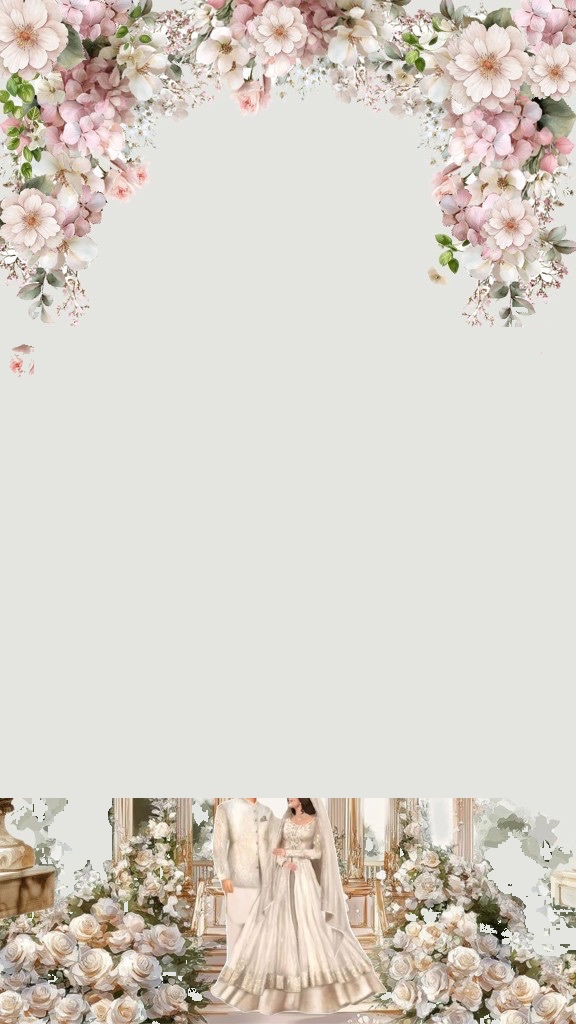
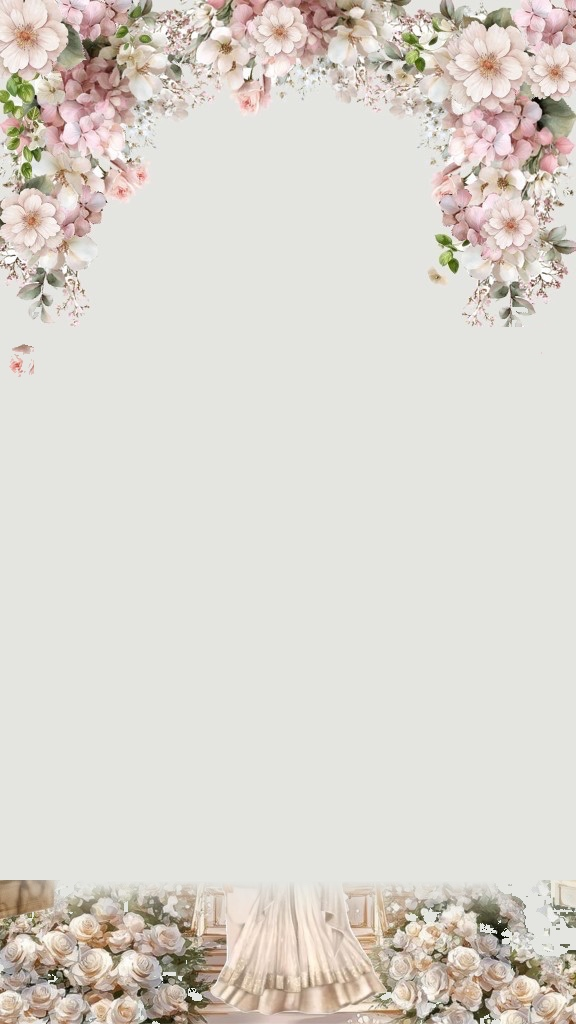
Blend the scratch seam, add blush petals, and swap the hint for a wand.
Clear the jagged band under the heart, rain pink/cream petals on scratch and countdown, and teach the gesture with a swiping wand tip.

Changed region(s): [[0.0, 0.7812, 1.0, 0.9062]]

diff --git a/src/components/reveal/ScratchReveal.tsx b/src/components/reveal/ScratchReveal.tsx
@@ -153,7 +153,7 @@ export default function ScratchReveal({ locale }: { locale: Locale }) {
         justifyContent: 'flex-start',
       }}
     >
-      <Petals tone="red-white" amount={16} />
+      <Petals tone="blush-mix" amount={20} />
 
       <svg width="0" height="0" aria-hidden style={{ position: 'absolute' }}>
         <defs>
@@ -335,33 +335,34 @@ export default function ScratchReveal({ locale }: { locale: Locale }) {
               {showHint && !isRevealed && (
                 <>
                   <div className="foil-shimmer" />
-                  <div className={`scratch-hint${isRtl ? ' is-rtl' : ''}`} aria-hidden>
-                    <svg width="36" height="54" viewBox="0 0 36 54" fill="none">
-                      {/* One pointing index finger + simple palm */}
-                      <path
-                        d="M15.4 24.5V6.8c0-2.55 1.7-4.3 3.85-4.3S23.1 4.25 23.1 6.8v17.7"
-                        fill="#FFF5F6"
-                        stroke={pink.main}
-                        strokeWidth="1.6"
-                        strokeLinejoin="round"
-                      />
-                      <path
-                        d="M11.2 26.2c-2.85 1-4.8 3.5-4.8 6.6 0 5.55 4.7 12.8 12.85 15.7 8 2.85 16.15-.2 19.4-5.7 2.25-3.8 1.25-8-2.15-10.1-1.2-.75-2.7-.95-4.15-.55l-1.2.4"
-                        fill="#FFF5F6"
-                        stroke={pink.main}
-                        strokeWidth="1.6"
-                        strokeLinejoin="round"
-                      />
-                      <path
-                        d="M11.5 26.8c0-1.85 1.25-3.15 2.95-3.15h8.5c1.55 0 2.8 1.15 2.8 2.7v3.35"
-                        fill="#FFF5F6"
-                        stroke={pink.main}
-                        strokeWidth="1.6"
-                        strokeLinejoin="round"
-                      />
-                      <circle cx="19.25" cy="3.85" r="1.2" fill={pink.soft} />
-                    </svg>
-                  </div>
+                <div className={`scratch-hint${isRtl ? ' is-rtl' : ''}`} aria-hidden>
+                  <svg width="64" height="64" viewBox="0 0 64 64" fill="none">
+                    {/* Magical wand — tip spark + slender wood shaft */}
+                    <circle cx="14" cy="14" r="3.2" fill="#FFF8F9" stroke={pink.main} strokeWidth="1.2" />
+                    <path
+                      d="M16.2 16.2 L48.8 48.8"
+                      stroke={pink.deep}
+                      strokeWidth="3.2"
+                      strokeLinecap="round"
+                    />
+                    <path
+                      d="M16.2 16.2 L48.8 48.8"
+                      stroke={pink.soft}
+                      strokeWidth="1.4"
+                      strokeLinecap="round"
+                      opacity="0.95"
+                    />
+                    <path
+                      d="M45.6 45.6 L50.2 50.2"
+                      stroke={theme.colors.ink}
+                      strokeWidth="3.4"
+                      strokeLinecap="round"
+                    />
+                    <path d="M11 8.5 L14 14 L8.5 11" stroke={pink.soft} strokeWidth="1.1" strokeLinecap="round" />
+                    <path d="M18.5 9.2 L14 14 L19.2 12.4" stroke={pink.main} strokeWidth="1.1" strokeLinecap="round" opacity="0.85" />
+                    <circle cx="14" cy="14" r="1.15" fill={pink.main} />
+                  </svg>
+                </div>
                 </>
               )}
             </div>

diff --git a/src/app/globals.css b/src/app/globals.css
@@ -368,6 +368,28 @@ h2 {
   background: #8e2f2f;
 }
 
+/* Blush floral mix — matches pink/cream roses on scratch + countdown art */
+.petals.blush-mix i {
+  background: #fff8f9;
+  box-shadow: 0 2px 6px rgba(201, 149, 158, 0.3);
+}
+
+.petals.blush-mix i:nth-child(3n) {
+  background: #e8c4cb;
+}
+
+.petals.blush-mix i:nth-child(3n + 1) {
+  background: #c9959e;
+}
+
+.petals.blush-mix i:nth-child(5n) {
+  background: #ffffff;
+}
+
+.petals.blush-mix i:nth-child(7n) {
+  background: #b07884;
+}
+
 .petals.mehndi i:nth-child(3n) {
   background: #B7D0B0;
 }
@@ -527,15 +549,15 @@ h2 {
 .scratch-hint {
   position: absolute;
   z-index: 4;
-  top: 46%;
+  top: 44%;
   left: 50%;
-  width: 36px;
-  height: 54px;
-  margin-left: -18px;
-  margin-top: -27px;
+  width: 64px;
+  height: 64px;
+  margin-left: -32px;
+  margin-top: -32px;
   pointer-events: none;
-  animation: scratchSwipeLR 1.85s ease-in-out infinite;
-  filter: drop-shadow(0 8px 12px rgba(176, 120, 132, 0.38));
+  animation: scratchSwipeLR 1.9s ease-in-out infinite;
+  filter: drop-shadow(0 8px 12px rgba(176, 120, 132, 0.4));
 }
 
 .scratch-hint.is-rtl {
@@ -564,43 +586,43 @@ h2 {
 
 @keyframes scratchSwipeLR {
   0% {
-    transform: translateX(-36px) translateY(6px) rotate(-18deg) scale(0.94);
-    opacity: 0.25;
+    transform: translateX(-40px) translateY(8px) rotate(-28deg) scale(0.94);
+    opacity: 0.2;
   }
-  12% {
+  14% {
     opacity: 1;
   }
   50% {
-    transform: translateX(36px) translateY(-4px) rotate(10deg) scale(1.02);
+    transform: translateX(40px) translateY(-6px) rotate(18deg) scale(1.04);
     opacity: 1;
   }
-  88% {
+  86% {
     opacity: 1;
   }
   100% {
-    transform: translateX(-36px) translateY(6px) rotate(-18deg) scale(0.94);
-    opacity: 0.25;
+    transform: translateX(-40px) translateY(8px) rotate(-28deg) scale(0.94);
+    opacity: 0.2;
   }
 }
 
 @keyframes scratchSwipeRL {
   0% {
-    transform: translateX(36px) translateY(6px) rotate(18deg) scale(0.94);
-    opacity: 0.25;
+    transform: translateX(40px) translateY(8px) rotate(28deg) scale(0.94);
+    opacity: 0.2;
   }
-  12% {
+  14% {
     opacity: 1;
   }
   50% {
-    transform: translateX(-36px) translateY(-4px) rotate(-10deg) scale(1.02);
+    transform: translateX(-40px) translateY(-6px) rotate(-18deg) scale(1.04);
     opacity: 1;
   }
-  88% {
+  86% {
     opacity: 1;
   }
   100% {
-    transform: translateX(36px) translateY(6px) rotate(18deg) scale(0.94);
-    opacity: 0.25;
+    transform: translateX(40px) translateY(8px) rotate(28deg) scale(0.94);
+    opacity: 0.2;
   }
 }
 

diff --git a/src/components/events/EventSections.tsx b/src/components/events/EventSections.tsx
@@ -104,6 +104,7 @@ export function Countdown({ locale }: { locale: Locale }) {
         overflow: 'hidden',
       }}
     >
+      <Petals tone="blush-mix" amount={20} />
       <div
         className="count-overlay"
         style={{
